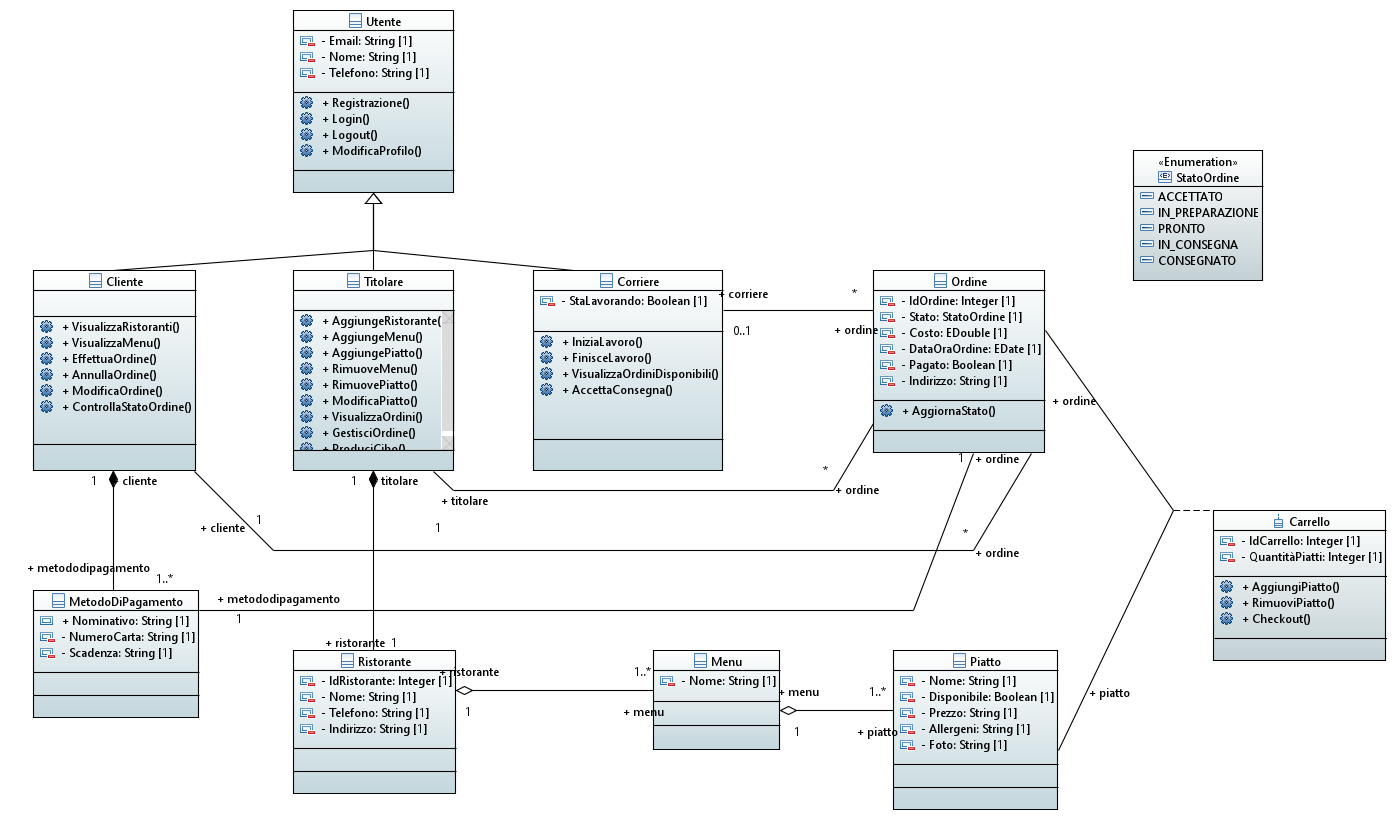
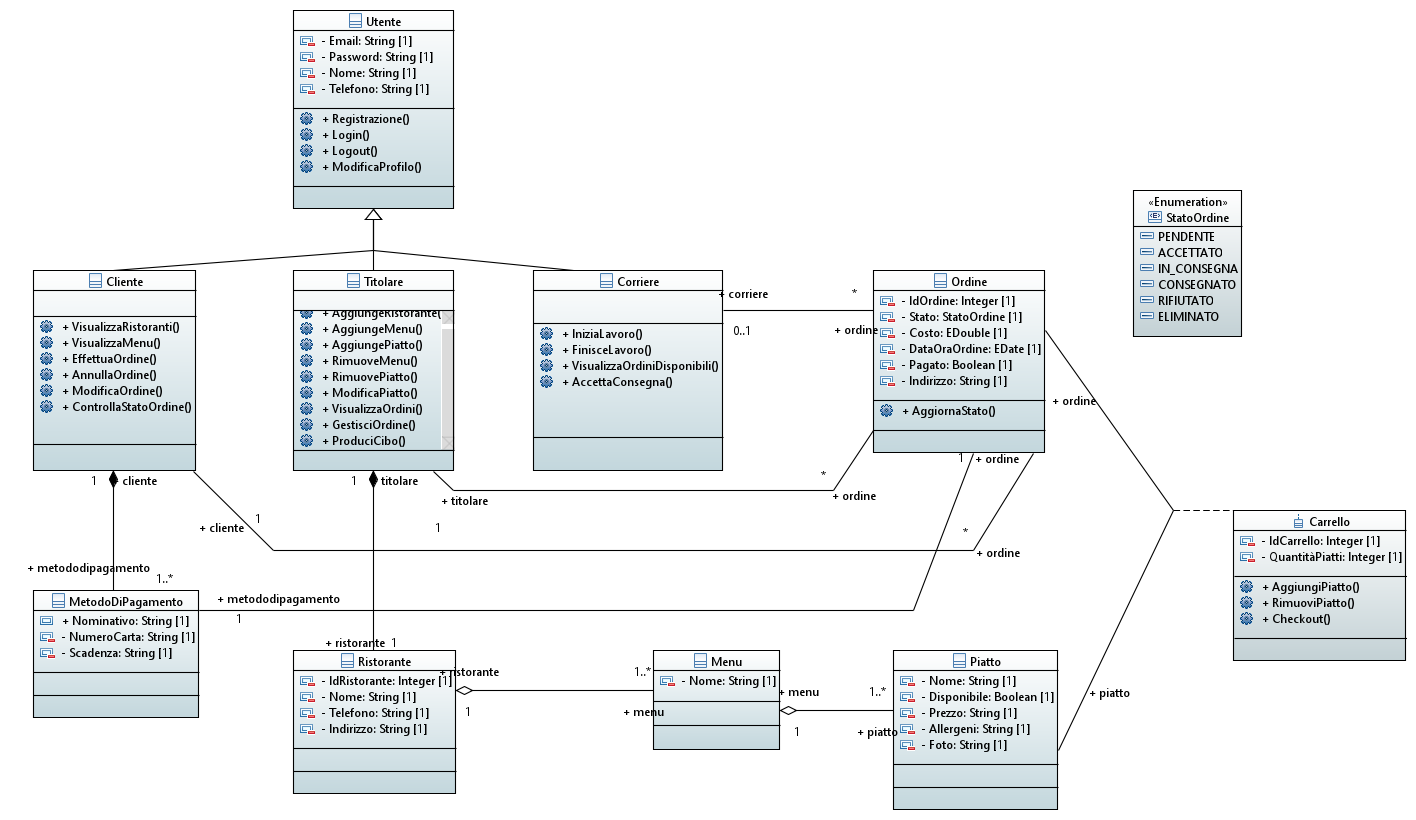
Aggiornato class diagram

diff --git a/QuickByte/src/main/java/model/Titolare.java b/QuickByte/src/main/java/model/Titolare.java
@@ -4,14 +4,4 @@ public class Titolare extends Utente {
     public Titolare(String email, String password, String nome, String telefono) {
         super(email, password, nome, telefono);
     }
-	
-    public void aggiungiRistorante() {}
-    public void aggiungiMenu() {}
-    public void aggiungiPiatto() {}
-    public void rimuoviMenu() {}
-    public void rimuoviPiatto() {}
-    public void modificaPiatto() {}
-    public void visualizzaOrdini() {}
-    public void gestisciOrdine() {}
-    public void produciScontrino() {}
 }

diff --git a/QuickByte/src/main/java/model/Cliente.java b/QuickByte/src/main/java/model/Cliente.java
@@ -4,11 +4,4 @@ public class Cliente extends Utente {
 	 public Cliente(String email, String password, String nome, String telefono) {
 	        super(email, password, nome, telefono);
 	    }
-	 
-    public void visualizzaRistoranti() {}
-    public void visualizzaMenu() {}
-    public void effettuaOrdine() {}
-    public void annullaOrdine() {}
-    public void modificaOrdine() {}
-    public void controllaStatoOrdine() {}
 }

diff --git a/QuickByte/src/main/java/model/Corriere.java b/QuickByte/src/main/java/model/Corriere.java
@@ -4,7 +4,4 @@ public class Corriere extends Utente {
 	public Corriere(String email, String password, String nome, String telefono) {
         super(email, password, nome, telefono);
     }  
-
-    public void visualizzaOrdiniDisponibili() {}
-    public void accettaConsegna() {}
 }
